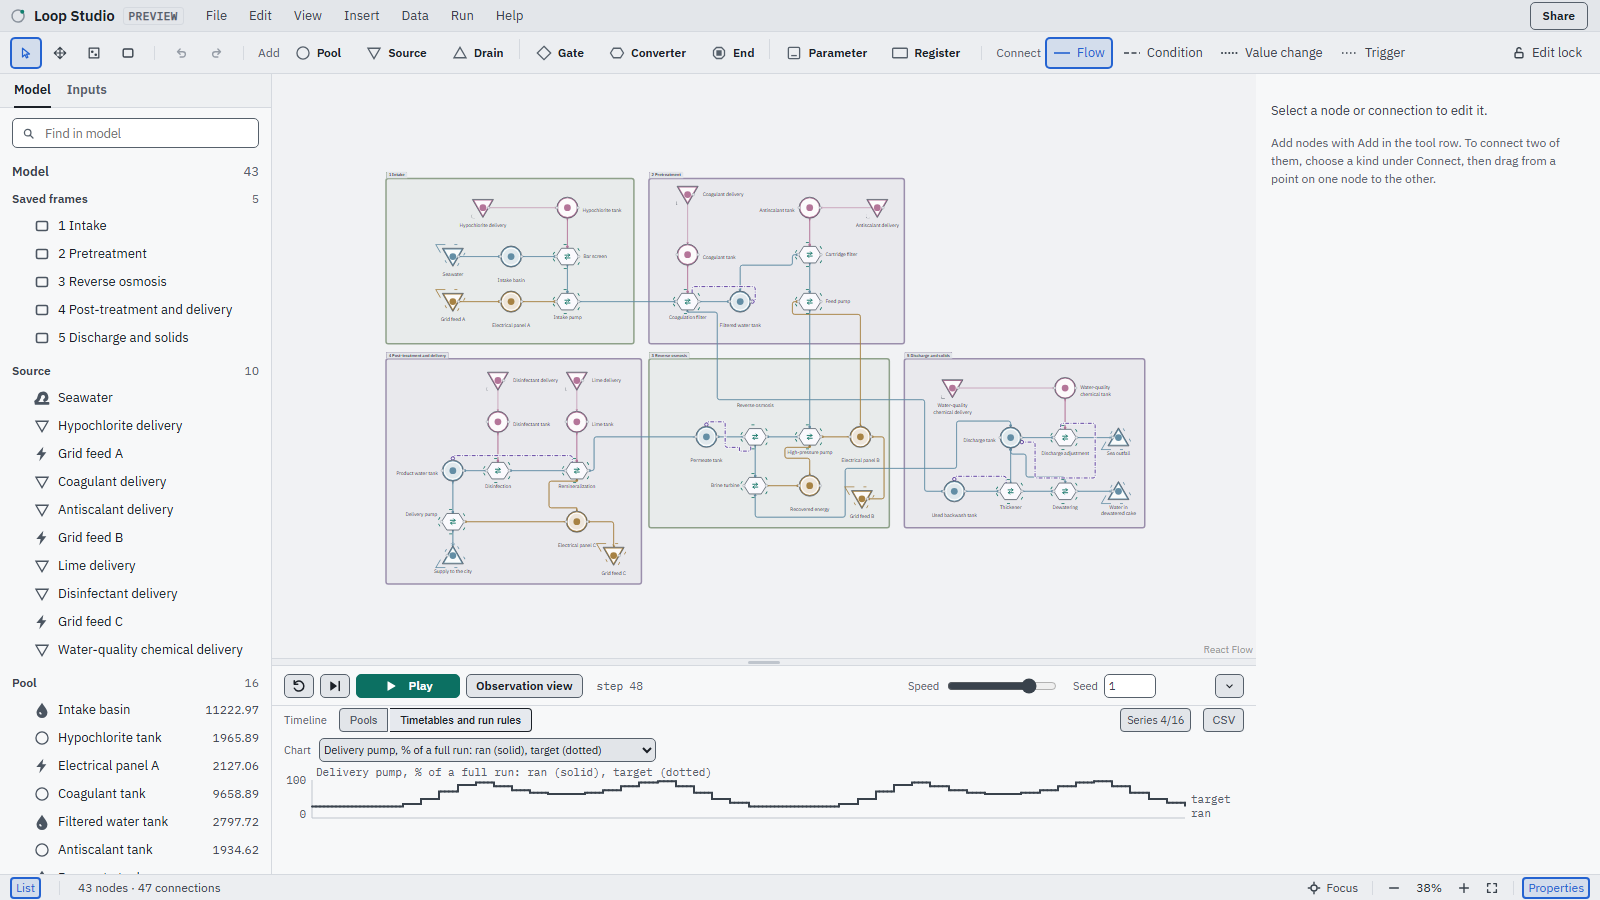
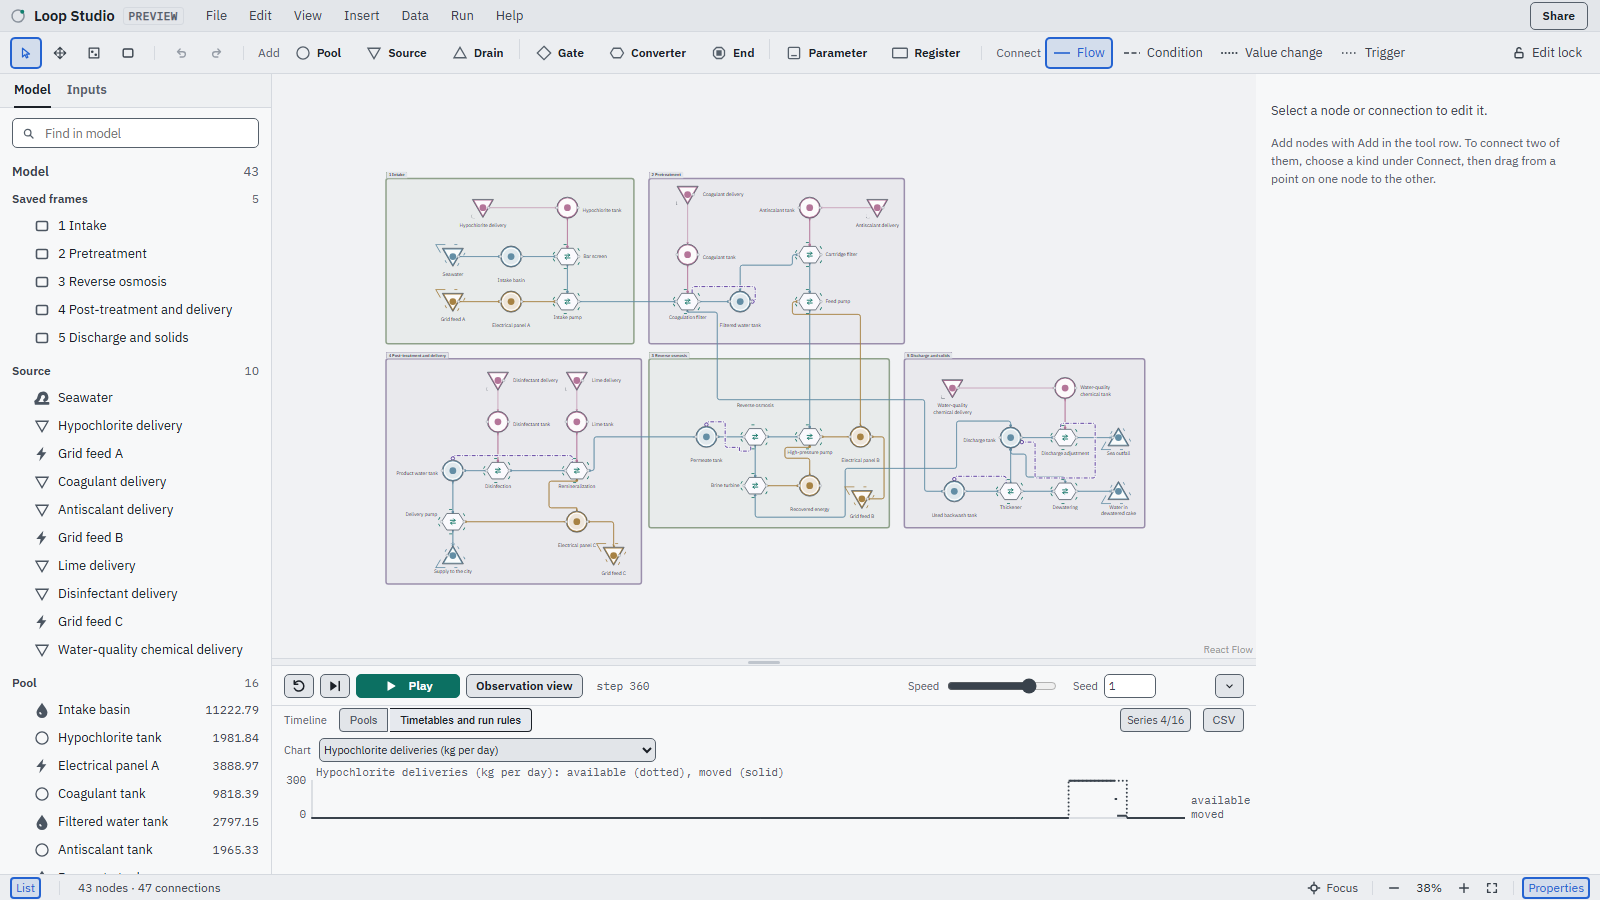
The README's desalination and gacha scenes show what their descriptions say (#549 review)
Lumi's review of the first head. At step 48 every desalination run lies on its target, so the solid line covered the dots the description named; at step 360, day 15, a hypochlorite delivery stands dotted at 300 kg per day above what moved, solid, and that is the scene now, with its description and the paragraph above it. The 3-zone gacha scene cut off the third zone, and a fit of all three reads at 16 to 38 %, where no name or value shows; on Lumi's choice the scene now leads with the comparison row at 59 %, its five cards readable, and the Timeline, and its description names only what is in view: the five cards and their values, the top of General / Free and the edge of Premium Standard, the run row, the Timeline and the Register's read-back.

diff --git a/README.md b/README.md
@@ -99,10 +99,10 @@ The *Seawater desalination process* Template follows water from intake through
 pretreatment, reverse osmosis and post-treatment to the city and the sea, in five
 numbered frames. A day of demand drives it, six run rules move its stages, and its
 six chemical tanks are refilled by deliveries every 14 days; it is checked over 90
-days. The Timeline shows the tanks in one tab and each stage's run against its
-target in the other.
+days. The Timeline shows the tanks in one tab and, in the other, each stage's run
+against its target and each delivery against what moved.
 
-![The Seawater desalination Template two days into a run: its five numbered process frames from Intake to Discharge and solids on the canvas, the list of every node on the left with each Pool's amount, the run row with Play and the Observation view button, and the Timeline on its Timetables and run rules tab showing the Delivery pump's run, solid, over its target, dotted, with the words "target" and "ran" at the line ends](docs/assets/desalination-process.png)
+![The Seawater desalination Template fifteen days into a run: its five numbered process frames from Intake to Discharge and solids on the canvas, the list of every node on the left with each Pool's amount, the run row with Play and the Observation view button, and the Timeline on its Timetables and run rules tab showing the hypochlorite deliveries: what a delivery made available, dotted, standing at 300 kg per day above what moved, solid, with the words "available" and "moved" at the line ends](docs/assets/desalination-process.png)
 
 The game example with the most moving parts is the *3-zone gacha banner
 comparison* Template, which runs three pity/pickup rule
@@ -112,7 +112,7 @@ per zone under identical run settings. Once a run completes, its hit and
 pickup rates are easy to compare; run Monte Carlo analysis to inspect the
 distribution across many runs.
 
-![The gacha Template after a completed 200-pull-per-zone run, its comparison row above the zone frames side by side below it: five comparison cards reading real hit-rate/pickup-rate percentages, the run row at its end with Replay and the Observation view button, a Timeline with per-zone SSR/pickup curves, and a Register's expression read-back open in the right panel](docs/assets/gacha-overview.png)
+![The 3-zone gacha Template after a completed 200-pull-per-zone run, its Comparison row across the top of the canvas with five cards: 200 pulls per zone, the hit rates of General / Free at 0.5 %, Premium Standard at 1 % and Premium Pickup at 2 %, and Premium Pickup's pickup rate at 1.5 %; below them only the top of the General / Free zone and the left edge of Premium Standard; the run row at its end with Replay and the Observation view button; the Timeline with each zone's SSR count and the Pickup wins as stepped lines; and the selected pickup-rate Register's read-back, Pickup wins 3 / Pulls per zone 200 = 1.5 %, in the right panel](docs/assets/gacha-overview.png)
 
 How the Premium Pickup zone's hard-pity counter and pickup guarantee work, with
 that zone framed on its own, is in
